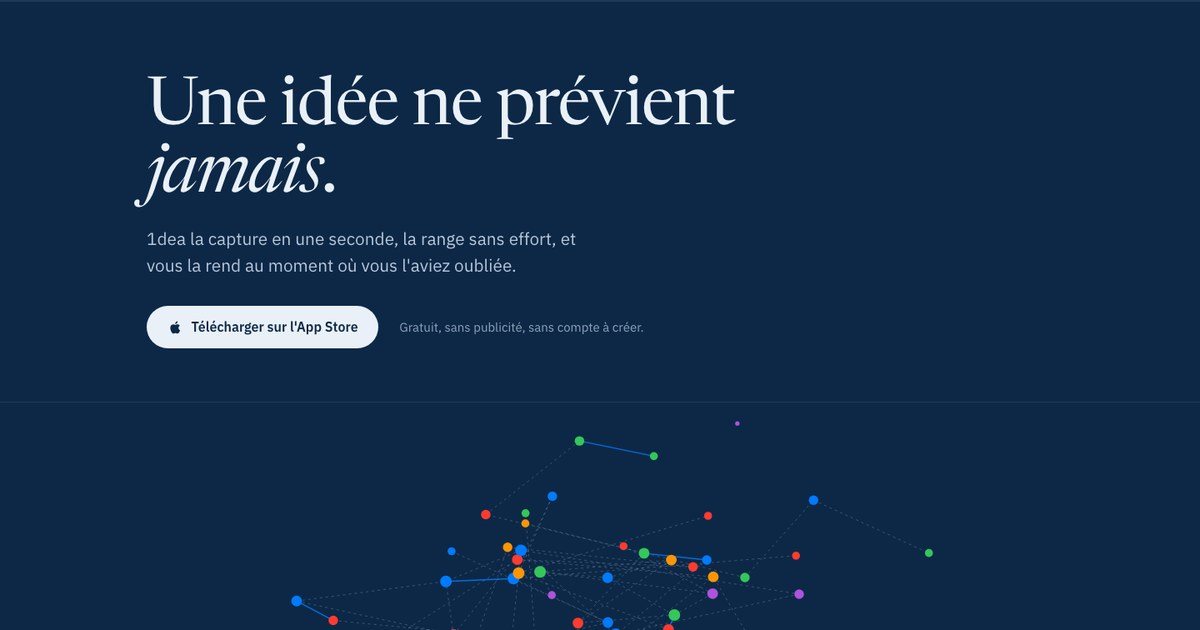
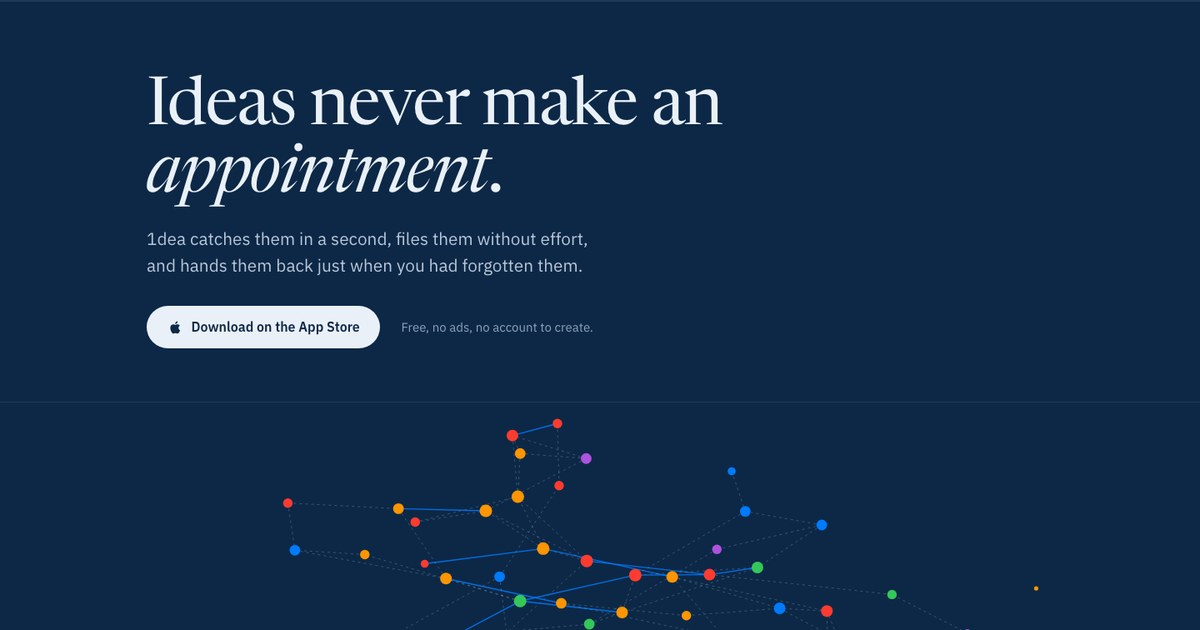
m

diff --git a/app.js b/app.js
@@ -53,18 +53,16 @@
         });
     });
 
-    // Ordre : ce que l'URL demande — pour pouvoir partager un lien vers la
-    // version anglaise — puis le choix déjà fait par le visiteur, puis la
-    // langue de son navigateur.
+    // Ordre : ce que l'URL demande — pour partager un lien vers une version
+    // précise —, puis le choix déjà fait par le visiteur, et à défaut
+    // l'anglais. La langue du navigateur n'entre pas en compte : le document
+    // s'ouvre en anglais, le bouton est là pour le français.
     var asked = null;
     try {
         asked = new URLSearchParams(window.location.search).get('lang');
     } catch (e) { /* navigateur ancien */ }
 
-    var initial = (asked === 'fr' || asked === 'en') ? asked : stored();
-    if (!initial) {
-        initial = (navigator.language || 'fr').toLowerCase().indexOf('fr') === 0 ? 'fr' : 'en';
-    }
+    var initial = (asked === 'fr' || asked === 'en') ? asked : (stored() || 'en');
     setLanguage(initial, asked !== null);
 
     /* ------------------------------------------------------ constellation */
@@ -73,8 +71,11 @@
       Le même placement ressorts-charges que le graphe de l'application : les
       points se repoussent tous, les arêtes les rappellent, une vitesse amortie
       évite le frémissement d'un pas de longueur imposée, et la température
-      décroît jusqu'à l'arrêt. La figure se pose en quelques secondes, puis plus
-      rien ne bouge — c'est le seul moment d'animation de la page.
+      décroît jusqu'à l'arrêt.
+
+      La mise en place est déroulée d'un trait, sans être peinte : la page
+      n'affiche que la figure posée. Rien ne bouge, rien ne clignote, et aucune
+      boucle d'animation ne tourne derrière.
     */
 
     var canvas = document.getElementById('constellation');
@@ -94,7 +95,6 @@
     var links = [];
     var temperature = 0;
     var ideal = Math.sqrt(1 / COUNT);
-    var frame = null;
     var width = 0;
     var height = 0;
     var ratio = 1;
@@ -249,27 +249,15 @@
         }
     }
 
-    function tick() {
-        step();
-        draw();
-        if (temperature < FREEZING) { frame = null; return; }
-        frame = requestAnimationFrame(tick);
-    }
-
-    var calm = window.matchMedia('(prefers-reduced-motion: reduce)');
-
-    function start() {
-        if (frame) { cancelAnimationFrame(frame); frame = null; }
-        build();
-
-        if (calm.matches) {
-            // Mouvement refusé : on déroule la mise en place sans la peindre,
-            // et on ne montre que la figure posée.
-            while (temperature >= FREEZING) { step(); }
-            draw();
-            return;
+    // Déroule la mise en place jusqu'à l'arrêt, sans rien peindre. Le garde-fou
+    // borne la boucle : mieux vaut une figure imparfaite qu'un onglet figé si
+    // un réglage venait à empêcher le refroidissement.
+    function settle() {
+        var guard = 0;
+        while (temperature >= FREEZING && guard < 2000) {
+            step();
+            guard++;
         }
-        frame = requestAnimationFrame(tick);
     }
 
     function resize() {
@@ -282,15 +270,16 @@
         draw();
     }
 
+    // Un redimensionnement ne refait que le cadrage : la figure est acquise.
     window.addEventListener('resize', function () {
         clearTimeout(resize.pending);
         resize.pending = setTimeout(resize, 150);
     });
 
-    // La figure est construite avant le premier dessin : `resize` peint, et
-    // peindre un tableau vide faisait tomber tout le script.
+    // La figure est construite et posée avant le premier dessin : `resize`
+    // peint, et peindre un tableau vide faisait tomber tout le script.
     build();
+    settle();
     resize();
-    start();
 
 })();

diff --git a/index.html b/index.html
@@ -1,12 +1,12 @@
 <!doctype html>
-<html lang="fr" data-lang="fr">
+<html lang="en" data-lang="en">
 <head>
 <meta charset="utf-8">
 <meta name="viewport" content="width=device-width, initial-scale=1">
-<title>1dea — carnet d'idées et de pensées</title>
-<meta name="description" content="Notez une idée en une seconde, retrouvez-la par le sens, voyez vos notes se relier entre elles. Gratuit, sans publicité, vos notes restent à vous. iPhone, iPad, Mac.">
-<meta property="og:title" content="1dea — carnet d'idées et de pensées">
-<meta property="og:description" content="Notez une idée en une seconde, retrouvez-la par le sens, voyez vos notes se relier entre elles.">
+<title>1dea — notebook for ideas and thoughts</title>
+<meta name="description" content="Jot an idea down in a second, find it again by meaning, watch your notes link up with each other. Free, no ads, your notes stay yours. iPhone, iPad, Mac.">
+<meta property="og:title" content="1dea — notebook for ideas and thoughts">
+<meta property="og:description" content="Jot an idea down in a second, find it again by meaning, watch your notes link up with each other.">
 <meta property="og:image" content="img/og.jpg">
 <meta name="twitter:card" content="summary_large_image">
 <meta property="og:type" content="website">
@@ -25,8 +25,8 @@
         1dea
     </a>
     <div class="langswitch" role="group" aria-label="Langue / Language">
-        <button type="button" data-setlang="fr" aria-pressed="true">Français</button>
-        <button type="button" data-setlang="en" aria-pressed="false">English</button>
+        <button type="button" data-setlang="fr" aria-pressed="false">Français</button>
+        <button type="button" data-setlang="en" aria-pressed="true">English</button>
     </div>
 </header>
 
@@ -126,7 +126,7 @@
             </div>
 
             <div class="phone">
-                <img data-shot="list" src="img/fr-list.png" width="820" height="1783"
+                <img data-shot="list" src="img/en-list.png" width="820" height="1783"
                      alt="Liste des idées dans 1dea, avec filtres par étoiles, catégories et tags.">
             </div>
         </div>
@@ -162,7 +162,7 @@
             </div>
 
             <div class="phone">
-                <img data-shot="search" src="img/fr-search.png" width="820" height="1783"
+                <img data-shot="search" src="img/en-search.png" width="820" height="1783"
                      alt="Recherche sémantique dans 1dea.">
             </div>
         </div>
@@ -184,7 +184,7 @@
 
         <div class="graphlead">
             <div class="phone">
-                <img data-shot="graph" src="img/fr-graph.png" width="820" height="1783"
+                <img data-shot="graph" src="img/en-graph.png" width="820" height="1783"
                      alt="Graphe des idées de 1dea : des points colorés reliés par des traits.">
             </div>
 
@@ -417,11 +417,11 @@
 
             <div class="pair">
                 <div class="phone">
-                    <img data-shot="stats" src="img/fr-stats.png" width="820" height="1783"
+                    <img data-shot="stats" src="img/en-stats.png" width="820" height="1783"
                          alt="Statistiques mensuelles des idées.">
                 </div>
                 <div class="phone">
-                    <img data-shot="map" src="img/fr-map.jpg" width="820" height="1783"
+                    <img data-shot="map" src="img/en-map.jpg" width="820" height="1783"
                          alt="Carte du monde des notes géolocalisées.">
                 </div>
             </div>

diff --git a/styles.css b/styles.css
@@ -33,11 +33,6 @@
 
 *, *::before, *::after { box-sizing: border-box; }
 
-html { scroll-behavior: smooth; }
-@media (prefers-reduced-motion: reduce) {
-    html { scroll-behavior: auto; }
-}
-
 body {
     margin: 0;
     background: var(--paper);
@@ -49,7 +44,10 @@ body {
     text-rendering: optimizeLegibility;
 }
 
-img { max-width: 100%; display: block; }
+/* `height: auto` est indispensable : les attributs width/height du HTML
+   réservent la place avant chargement, mais sans cela la hauteur reste figée
+   pendant que `max-width` rétrécit la largeur — et l'image s'écrase. */
+img { max-width: 100%; height: auto; display: block; }
 
 /* Bascule de langue : les deux versions vivent dans le document, seule celle
    qui correspond à `data-lang` est affichée. Le texte reste donc dans le HTML,
@@ -199,15 +197,9 @@ a { color: inherit; }
     font-size: 1rem;
     padding: 0.8rem 1.5rem;
     border-radius: 999px;
-    transition: transform 0.15s ease, background-color 0.15s ease;
 }
 
-.appstore:hover { background: #FFFFFF; transform: translateY(-1px); }
-
-@media (prefers-reduced-motion: reduce) {
-    .appstore { transition: none; }
-    .appstore:hover { transform: none; }
-}
+.appstore:hover { background: #FFFFFF; }
 
 .appstore svg { width: 20px; height: 20px; fill: currentColor; }
 
@@ -217,8 +209,8 @@ a { color: inherit; }
     margin: 0;
 }
 
-/* Constellation : l'unique moment d'animation de la page. Elle se pose en
-   quelques secondes puis s'arrête, comme dans l'application. */
+/* Constellation : la figure telle que le placement de l'application la pose,
+   calculée puis dessinée une fois. Rien ne bouge. */
 .constellation {
     position: relative;
     margin-inline: calc(var(--gutter) * -1);

diff --git a/README.md b/README.md
@@ -23,9 +23,10 @@ attribut `lang`, et une règle CSS masque celle qui n'est pas demandée. Le text
 reste donc lisible et modifiable dans le HTML, sans dictionnaire JavaScript à
 tenir à jour.
 
-La langue affichée suit, dans cet ordre : le paramètre `?lang=fr` ou `?lang=en`
-de l'URL — pratique pour partager un lien vers une version précise —, puis le
-choix déjà fait par le visiteur, puis la langue de son navigateur.
+La page s'ouvre en anglais. La langue affichée suit, dans cet ordre : le
+paramètre `?lang=fr` ou `?lang=en` de l'URL — pratique pour partager un lien
+vers une version précise —, puis le choix déjà fait par le visiteur, et à
+défaut l'anglais. La langue du navigateur n'entre pas en compte.
 
 ## Les captures
 
@@ -39,3 +40,10 @@ terrain du lot, que le PNG ne sait pas compresser.
 
 Le dossier se publie tel quel sur GitHub Pages, Netlify ou tout hébergement de
 fichiers statiques. Aucune configuration de serveur n'est nécessaire.
+
+## Rien ne bouge
+
+Aucune animation : pas de transition, pas de défilement adouci, pas de boucle
+de rendu. La constellation du héros est calculée d'un trait au chargement —
+c'est le placement ressorts-charges du graphe de l'application — puis dessinée
+une seule fois.
